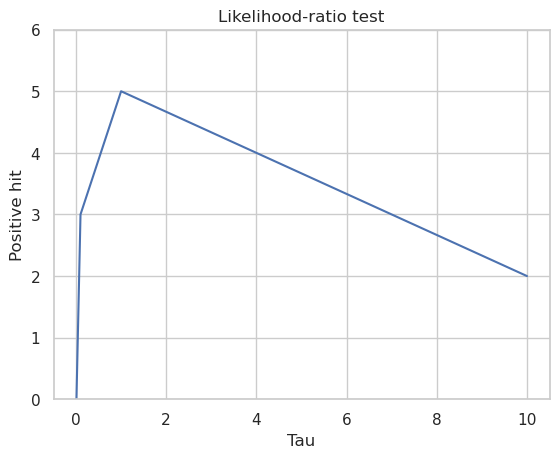
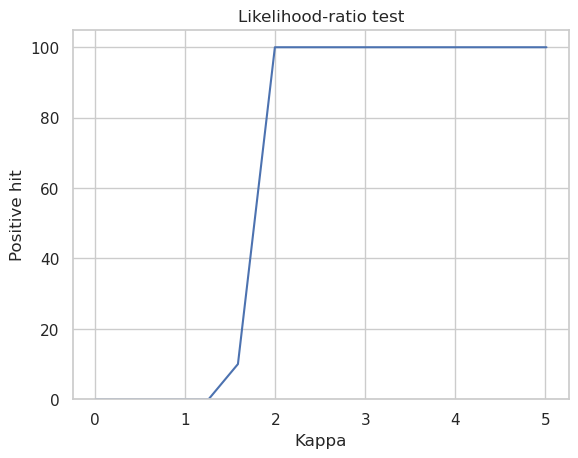
assessment dadi script

diff --git a/sei/sei.py b/sei/sei.py
@@ -3,6 +3,7 @@ Programme pour inférer l'évolution d'une population à partir de données gén
 """
 
 import os
+import sys
 import time
 import warnings
 from collections import Counter
@@ -382,7 +383,6 @@ def inference(msprime_model, dadi_model, control_model, optimization, scale, sav
     }
     data = data.append(row, ignore_index=True)
 
-    #plot.plot_lrt(data)
     # Export data to csv file
     path_data = "./Data/Optimization_{}/".format(optimization)
     data.to_json("{}opt-tau={}_kappa={}.json".format(path_data, tau, kappa))
@@ -444,16 +444,49 @@ def main():
     elif args.analyse == 'ases':
         path_data = "./Data/Optimization_{}/".format(args.param)
 
-        spectrums = sorted([ele for ele in os.listdir(path_data) if ele.startswith("SFS")])
+        spectrums = sorted([ele for ele in os.listdir(path_data) if ele.startswith("SFS") \
+                            and not ele.endswith("inferred.fs")])
 
-        col = ["Tau", "Kappa", "Positive hit", "Model0 ll", "Model1 ll"]
-        data = pd.DataFrame(columns=col)
+        sfs = []
+        for spectr in spectrums:
+            with open("{}{}".format(path_data, spectr), "r") as filin:
+                lines = filin.readlines()
+                sfs.append([int(ele) for ele in lines[1].strip().split(" ")[1: -1]])
+            with open("{}{}-inferred.fs".format(path_data, spectr.split('.fs')[0]), "r") as filin:
+                lines = filin.readlines()
+                sfs.append([float(ele) for ele in lines[1].strip().split(" ")[1: -1]])
+
+            # Plot
+            # Theoretical SFS for any constant population
+            sfs_theorique = [0] * (20 - 1)
+            for i in range(len(sfs_theorique)):
+                sfs_theorique[i] = 1 / (i+1)
+            sfs.append(sfs_theorique)
+
+            plot.plot_sfs(
+                sfs=sfs,
+                label=["Observed", "Inferred", "Théorique"],
+                color=["tab:blue", "tab:orange", "tab:red"],
+                title="Unfold SFS for various scenarios",
+                name="Test-sfs"
+            )
+            break
+        sys.exit()
+
+        # Generate plot puissance
+        dico = {
+            "Tau": np.array([], dtype=float), "Kapp": np.array([], dtype=float),
+            "Positive hit": np.array([], dtype=int),
+            "Model0 ll": np.array([], dtype=list), "Model1 ll": np.array([], dtype=list)
+        }
+        data = pd.DataFrame(dico)
 
         for fichier in sorted([ele for ele in os.listdir(path_data) if ele.startswith("opt")]):
             res = pd.read_json(path_or_buf="{}{}".format(path_data, fichier), typ='frame')
             data = data.append(res, ignore_index=True)
 
-        print(data["Kappa"])
+        plot.plot_lrt(data)
+
 
 if __name__ == "__main__":
     warnings.filterwarnings('ignore')

diff --git a/sei/graphics/plot.py b/sei/graphics/plot.py
@@ -197,11 +197,10 @@ def plot_lrt(data, path="./Figures/"):
     """
     # Plot
     sns.set_theme(style="whitegrid")
-    ax = sns.lineplot(x="Tau", y="Positive hit", data=data)
-    print(data)
+    ax = sns.lineplot(x="Kappa", y="Positive hit", data=data)
 
     # Set yaxis range
-    ax.set(ylim=(0, max(data["Positive hit"]) + 1))
+    ax.set(ylim=(0, max(data["Positive hit"]) + 5))
 
     # Title + save plot to folder ./Figures
     plt.title("Likelihood-ratio test")
